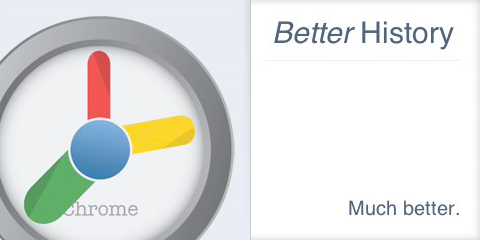
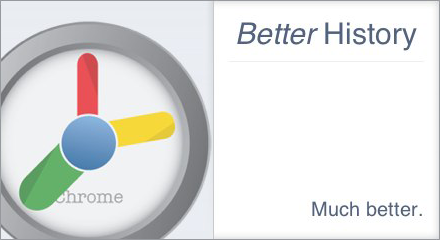
Updated small promo to new dimensions

diff --git a/promos/small.html b/promos/small.html
@@ -11,9 +11,10 @@
       }
       img {
         position:absolute;
-        top:10px;
-        left:-100px;
+        top:15px;
+        left:-95px;
         opacity:0.8;
+        width:365px;
       }
       .frame { background:#FFF; }
       h1 {
@@ -35,7 +36,7 @@
         z-index:0;
         border-right:1px solid #c6c9ce;
         float:left;
-        width:250px;
+        width:212px;
         height:100%;
         background:-webkit-linear-gradient(rgba(234, 238, 243, 0.2), #EAEEF3), -webkit-linear-gradient(left, #EAEEF3, #EAEEF3 97%, #D3D7DB)
       }

diff --git a/promos/base.css b/promos/base.css
@@ -11,8 +11,8 @@ body {
   margin:30px;
 }
 .frame.small {
-  width:480px;
-  height:240px;
+  width:438px;
+  height:238px;
 }
 .frame.large {
   width:960px;
